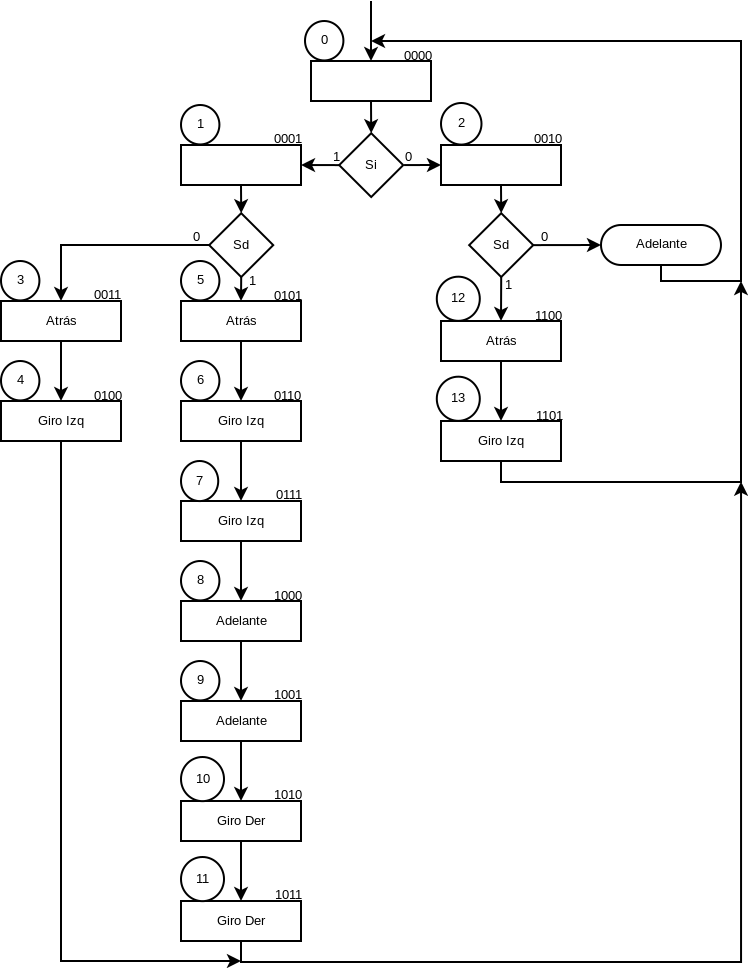
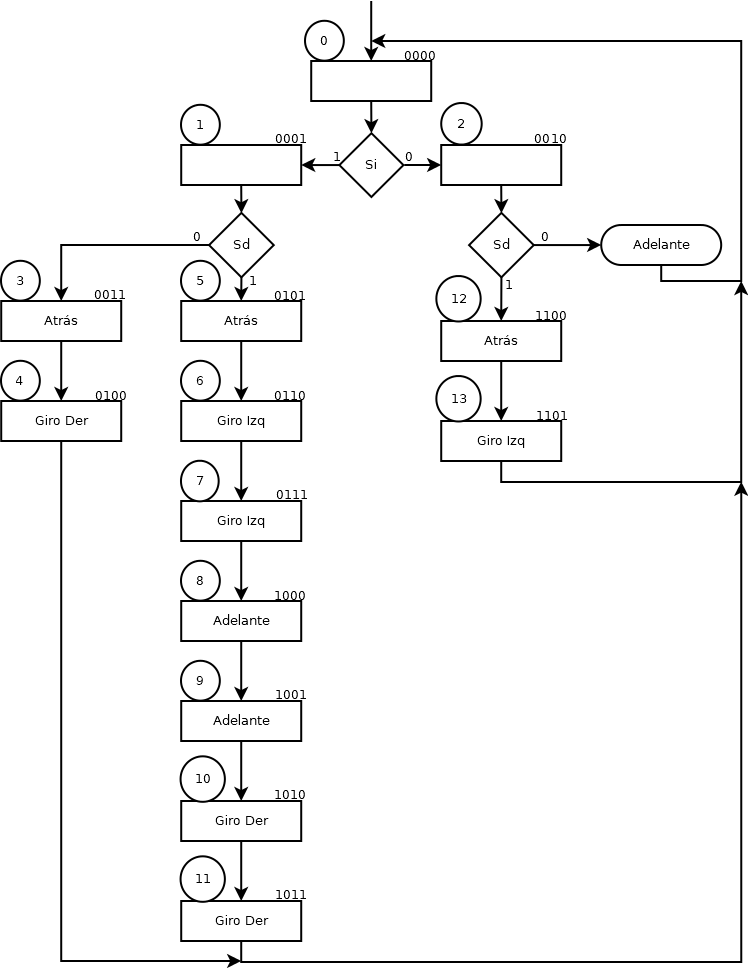
Se corrige error en salida de estado 4

diff --git a/practica3/doc/portada.tex b/practica3/doc/portada.tex
@@ -319,7 +319,7 @@ end rtl;
 		\hline                                               
 		2   & 0 0 1 0 & 1 1 & 1 & 0 0 1 1 & 0 1 0 0 & 0 1 0 0\\ 
 		\hline                                               
-		3   & 0 0 1 1 & 1 1 & 1 & 0 0 0 0 & 0 0 1 0 & 0 0 1 0\\ 
+		3   & 0 0 1 1 & 1 1 & 1 & 0 0 0 0 & 0 0 1 0 & 0 0 0 1\\ 
 		\hline                                               
 		4   & 0 1 0 0 & 1 1 & 1 & 0 1 0 1 & 0 1 0 0 & 0 1 0 0\\ 
 		\hline                                               
@@ -427,7 +427,7 @@ end architecture;
 
 % Please, put your comments here
 \subsection*{\diego}
-La tercera pr\''ctica se ha vuelto m\'as interesante ya que se sientan las bases con las que se trabajar\'a a lo largo del semestre. El uso de direccionamientos es ampliamente utilizado porque reduce repetici\'on y creaci\'on de tablas enormes de estados. Entrada-Estado y direccionamiento impl\'icito son buenos acercamientos a lo que m\'as adelante ser\'a el proyecto final que es mucho m\'as cercano a un proyecto real que los ejercicios en clase. Con esto y los constantes ejercicios y tareas se reafirma el entendimiento de los direccionamientos.
+La tercera pr\'actica se ha vuelto m\'as interesante ya que se sientan las bases con las que se trabajar\'a a lo largo del semestre. El uso de direccionamientos es ampliamente utilizado porque reduce repetici\'on y creaci\'on de tablas enormes de estados. Entrada-Estado y direccionamiento impl\'icito son buenos acercamientos a lo que m\'as adelante ser\'a el proyecto final que es mucho m\'as cercano a un proyecto real que los ejercicios en clase. Con esto y los constantes ejercicios y tareas se reafirma el entendimiento de los direccionamientos.
 \subsection*{\emilio}
 \subsection*{\luis}
 Hemos logrado implementar los dos modos de direccionamiento correctamente. Una vez que hemos entendido los conceptos nos ha sido sencillo implementar los diseños en VHDL. Sólo se debe tener cuidado al introducir los valores de la memoria ya que con alguno que esté mal el comportamiento podrá fallar en alguna parte, y podr\'iamos no darnos cuenta, por lo que se debe verificar esta información una vez que se ha escrito, ya sea de manera manual o en algun archivo \textit{.mif} que facilita la creaci\'on de memorias en Quartus.
